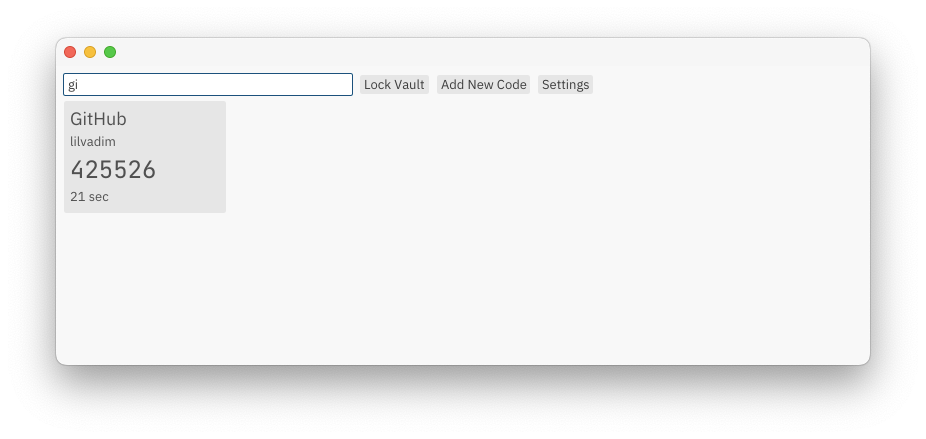
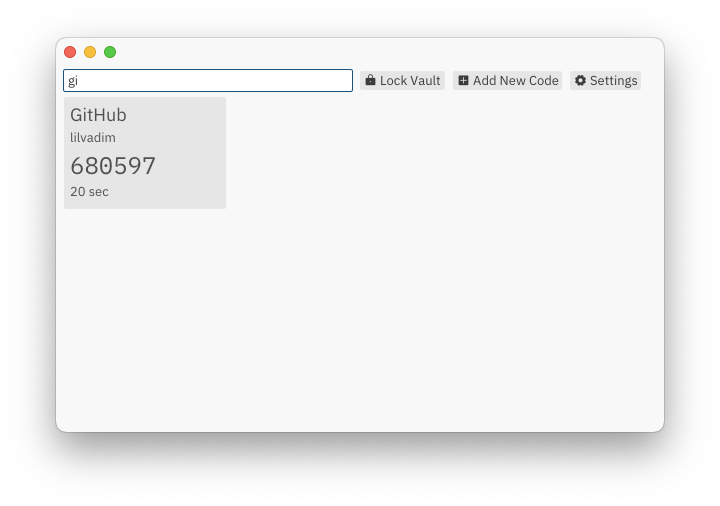
Update docs

Changed region(s): [[0.0611, 0.0592, 0.9472, 0.8588]]

diff --git a/README.md b/README.md
@@ -17,8 +17,6 @@ Desktop 2FA TOTP authenticator application.
 
 ## Screenshots
 
-<p align="left">
-  <img src="docs/screenshot.png" width="900" alt="screenshot">
-  <img src="docs/screenshot_locked.png" width="900" alt="screenshot: vault locked">
-  <img src="docs/screenshot_all.png" width="900" alt="screenshot: all toggled">
-</p>
+![Screenshot](docs/screenshot.png)
+![Screenshot Locked](docs/screenshot_locked.png)
+![Screenshot All Windwos](docs/screenshot_all.png)
